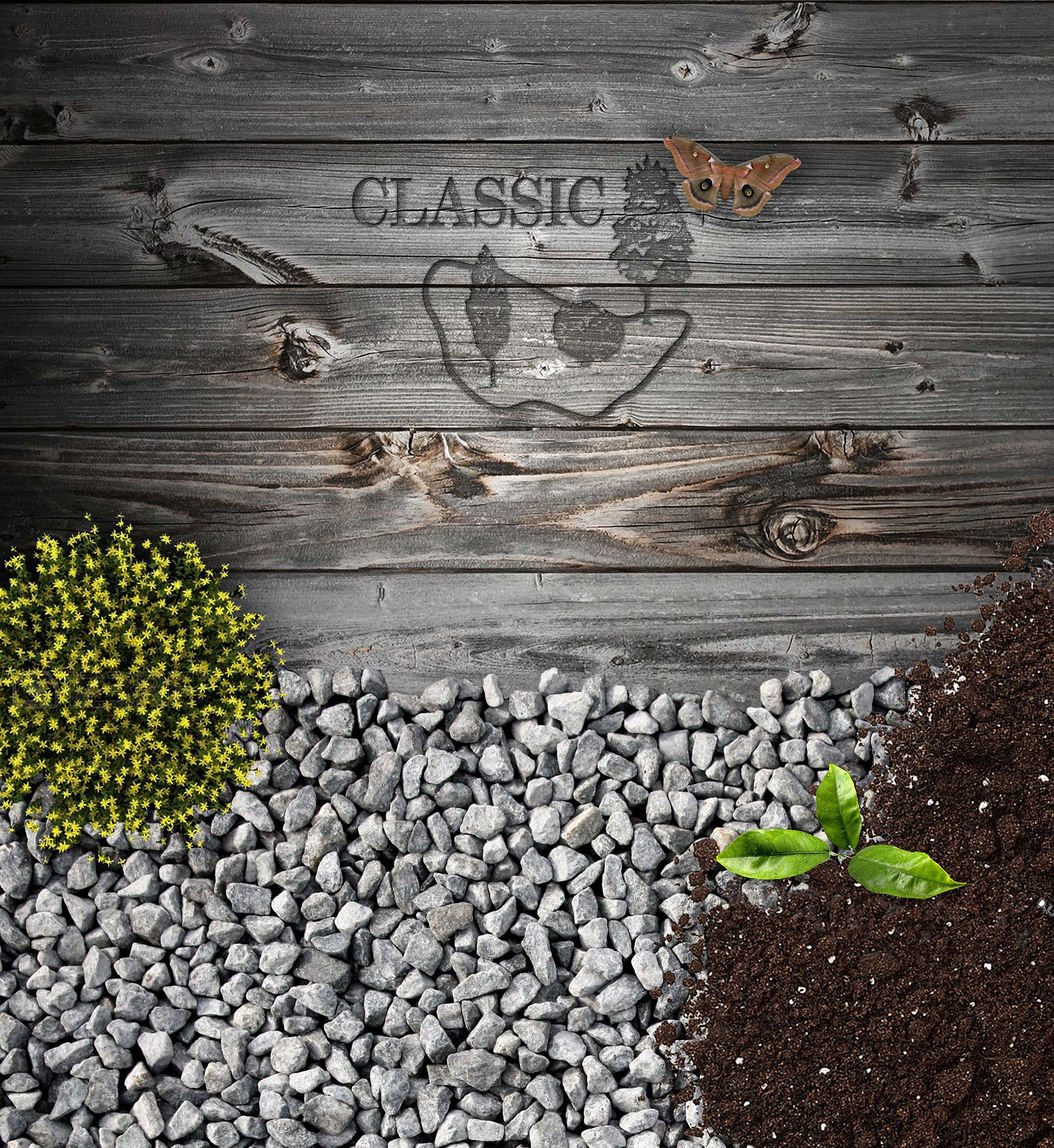
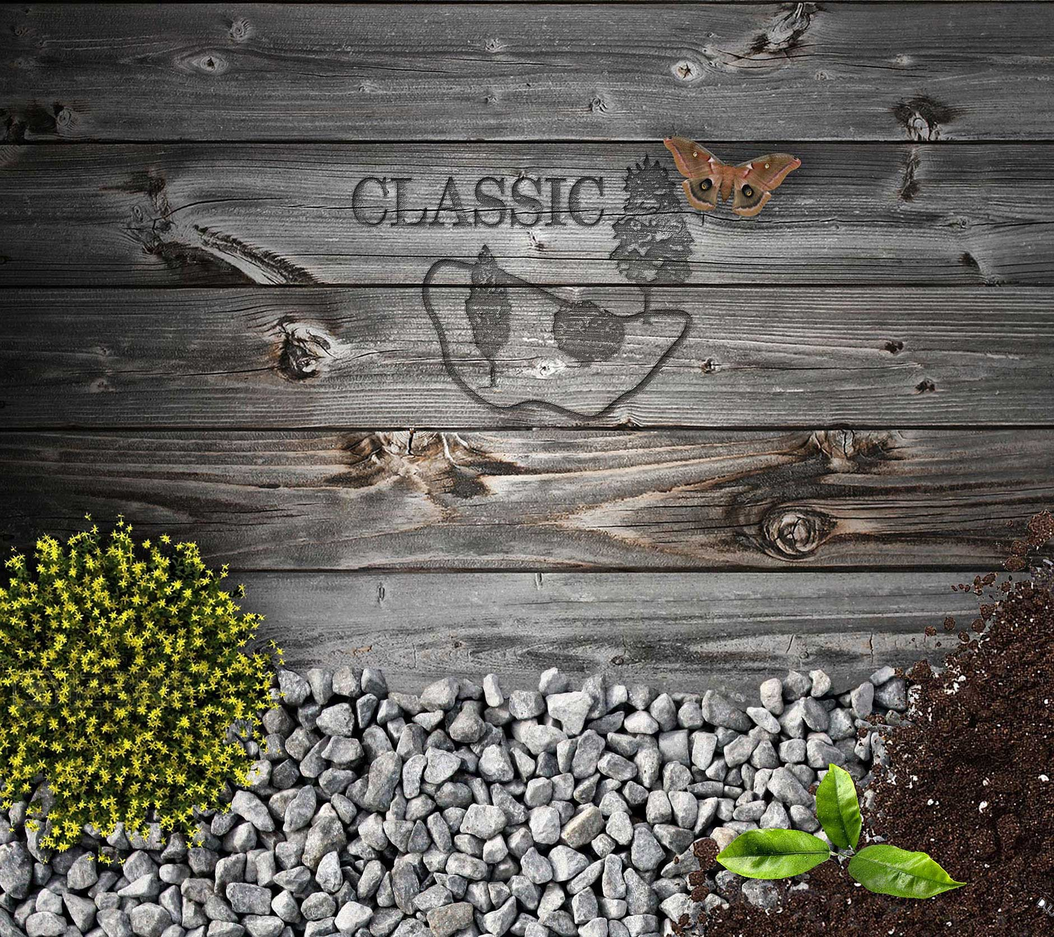
fix image size

diff --git a/index.html b/index.html
@@ -87,10 +87,9 @@
             <h1>this is for img</h1>
     </section>
     <section class="products container9">
-            <div class="projects__text-box">
-                    <h2 class="projects-primary">
-                        products</h2>
-                </div>
+            <div class="products__text-box">
+                <h2 class="products-primary">products</h2>
+            </div>
     </section>
     <!-- this is the start on the Services section -->
     <section class="service container10">

diff --git a/css/style.css b/css/style.css
@@ -40,9 +40,6 @@ html{
     top:40%;
     list-style-type: none;
 }
-.main-menu-list{
-    
-}
 .main-menu-list a{
     padding: 10px 15px;
 	text-transform: uppercase;
@@ -202,6 +199,17 @@ html{
 .products{
     height: 50vh;
     background-size: cover;
+}
+.products__text-box{
+    position: relative;
+    top: 15rem;
+    text-align: center;
+}
+.products-primary{
+    color: #ccdfcb;
+    backface-visibility: hidden;
+    font-size: 1.6rem;
+    
 }
 .container8{
     width: 100vw;
